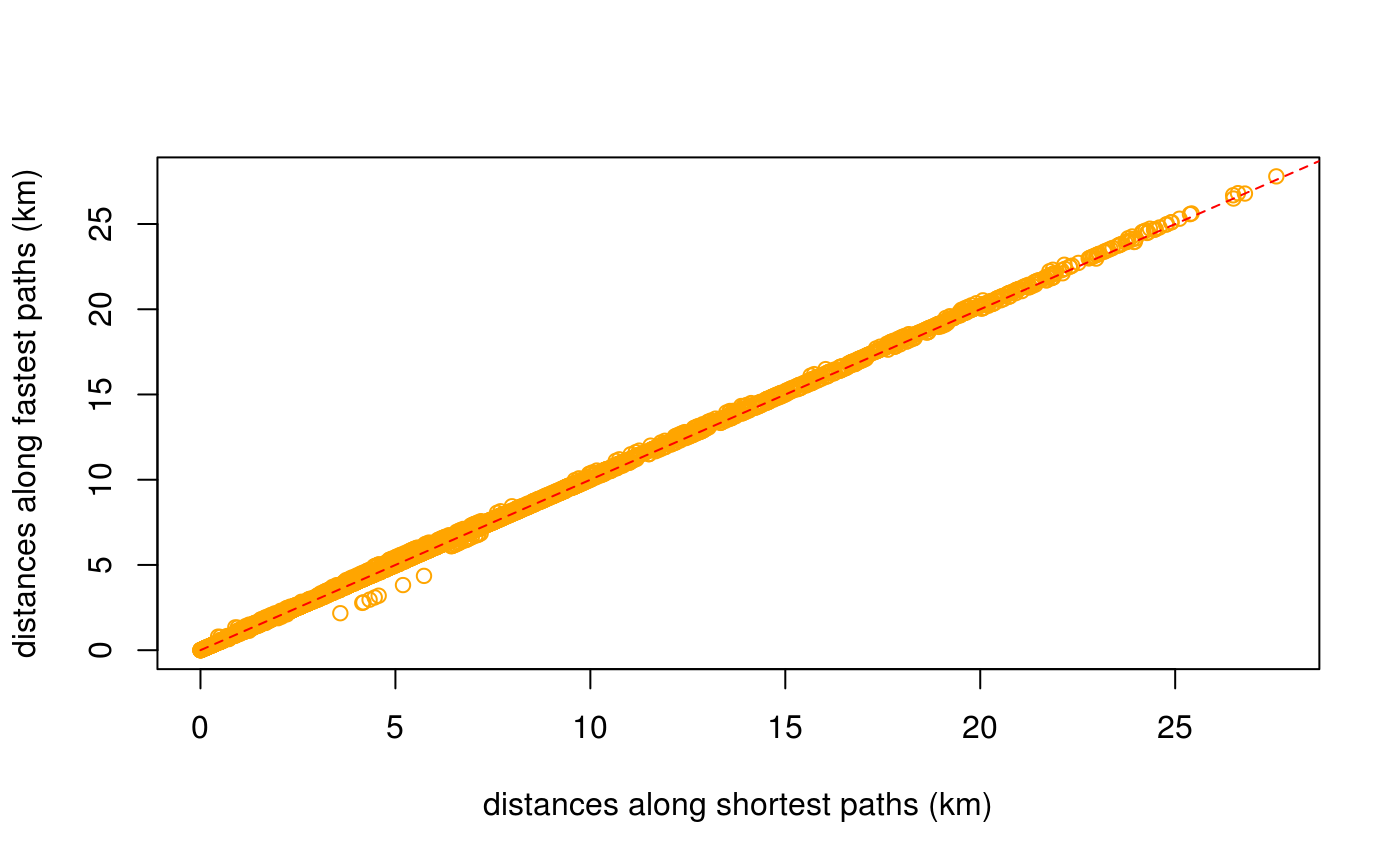
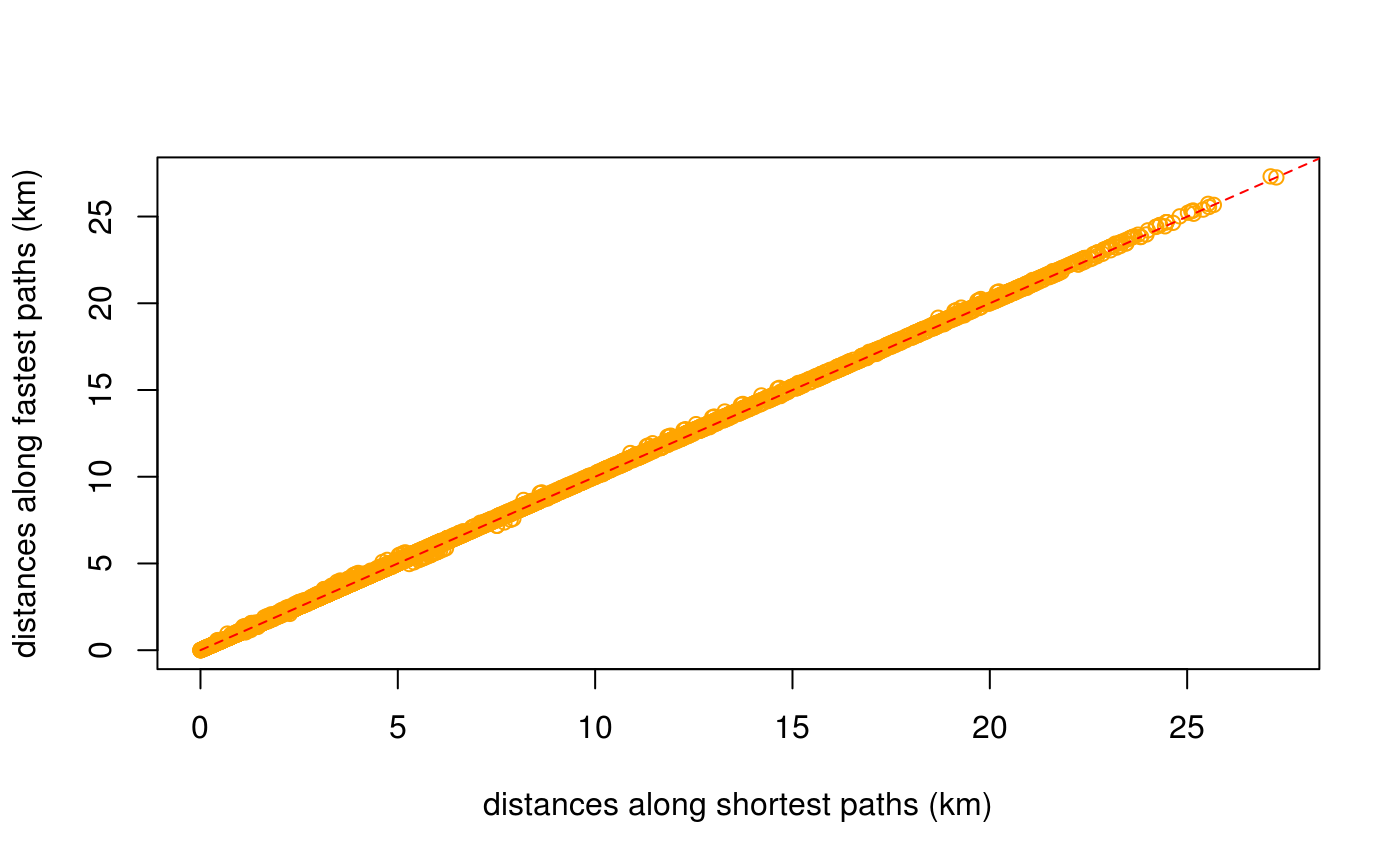
Built site for dodgr: 0.1.4.9@2d594ea

diff --git a/articles/dodgr.html b/articles/dodgr.html
@@ -343,7 +343,7 @@ Figure 2: A <strong>dual</strong>-weighted, directed graph in which the weights 
 <p>The <code>dodgr</code> packages includes a function to select a random connected portion of graph including a specified number of vertices. This function is used in the <code><a href="../reference/compare_heaps.html">compare_heaps()</a></code> function described below, but is also useful for general statistical analyses of large graphs which may otherwise take too long to compute.</p>
 <div class="sourceCode" id="cb59"><pre class="sourceCode r"><code class="sourceCode r"><a class="sourceLine" id="cb59-1" data-line-number="1">graph_sub &lt;-<span class="st"> </span><span class="kw"><a href="../reference/dodgr_sample.html">dodgr_sample</a></span> (graph, <span class="dt">nverts =</span> <span class="dv">100</span>)</a>
 <a class="sourceLine" id="cb59-2" data-line-number="2"><span class="kw"><a href="https://www.rdocumentation.org/packages/base/topics/nrow">nrow</a></span> (graph_sub)</a></code></pre></div>
-<pre><code>## [1] 199</code></pre>
+<pre><code>## [1] 197</code></pre>
 <p>The random sample has around twice as many edges as vertices, in accordance with the statistics calculated above.</p>
 <div class="sourceCode" id="cb61"><pre class="sourceCode r"><code class="sourceCode r"><a class="sourceLine" id="cb61-1" data-line-number="1"><span class="kw"><a href="https://www.rdocumentation.org/packages/base/topics/nrow">nrow</a></span> (<span class="kw"><a href="../reference/dodgr_vertices.html">dodgr_vertices</a></span> (graph_sub))</a></code></pre></div>
 <pre><code>## [1] 100</code></pre>
@@ -424,27 +424,27 @@ Figure 2: A <strong>dual</strong>-weighted, directed graph in which the weights 
 ## 6       d &lt;- dodgr_dists(graph_contracted, from = from_id, to = to_id, heap = "BHeap")
 ## 7       d &lt;- dodgr_dists(graph_contracted, from = from_id, to = to_id, heap = "FHeap")
 ## 8     d &lt;- dodgr_dists(graph_contracted, from = from_id, to = to_id, heap = "TriHeap")
-## 9  d &lt;- dodgr_dists(graph_contracted, from = from_id, to = to_id, heap = "TriHeapExt")
 ## 10     d &lt;- dodgr_dists(graph_contracted, from = from_id, to = to_id, heap = "Heap23")
-## 11        d &lt;- dodgr_dists(graph_contracted, from = from_id, to = to_id, heap = "set")
-## 3                d &lt;- dodgr_dists(graph, from = from_id, to = to_id, heap = "TriHeap")
 ## 5                 d &lt;- dodgr_dists(graph, from = from_id, to = to_id, heap = "Heap23")
-## 1                  d &lt;- dodgr_dists(graph, from = from_id, to = to_id, heap = "BHeap")
-## 2                  d &lt;- dodgr_dists(graph, from = from_id, to = to_id, heap = "FHeap")
+## 9  d &lt;- dodgr_dists(graph_contracted, from = from_id, to = to_id, heap = "TriHeapExt")
+## 11        d &lt;- dodgr_dists(graph_contracted, from = from_id, to = to_id, heap = "set")
 ## 4             d &lt;- dodgr_dists(graph, from = from_id, to = to_id, heap = "TriHeapExt")
+## 2                  d &lt;- dodgr_dists(graph, from = from_id, to = to_id, heap = "FHeap")
+## 3                d &lt;- dodgr_dists(graph, from = from_id, to = to_id, heap = "TriHeap")
+## 1                  d &lt;- dodgr_dists(graph, from = from_id, to = to_id, heap = "BHeap")
 ##    replications elapsed relative user.self sys.self user.child sys.child
-## 12            1   0.001        1     0.000        0          0         0
-## 6             1   0.002        2     0.004        0          0         0
-## 7             1   0.002        2     0.004        0          0         0
-## 8             1   0.002        2     0.004        0          0         0
-## 9             1   0.002        2     0.000        0          0         0
-## 10            1   0.002        2     0.004        0          0         0
-## 11            1   0.002        2     0.000        0          0         0
-## 3             1   0.003        3     0.004        0          0         0
-## 5             1   0.003        3     0.000        0          0         0
-## 1             1   0.004        4     0.004        0          0         0
-## 2             1   0.004        4     0.004        0          0         0
-## 4             1   0.004        4     0.004        0          0         0</code></pre>
+## 12            1   0.001        1     0.004    0.000          0         0
+## 6             1   0.002        2     0.004    0.000          0         0
+## 7             1   0.002        2     0.004    0.000          0         0
+## 8             1   0.002        2     0.004    0.000          0         0
+## 10            1   0.002        2     0.000    0.000          0         0
+## 5             1   0.003        3     0.000    0.004          0         0
+## 9             1   0.003        3     0.004    0.000          0         0
+## 11            1   0.003        3     0.004    0.000          0         0
+## 4             1   0.004        4     0.004    0.000          0         0
+## 2             1   0.005        5     0.004    0.000          0         0
+## 3             1   0.005        5     0.004    0.000          0         0
+## 1             1   0.006        6     0.008    0.000          0         0</code></pre>
 <p>The key column of that <code>data.frame</code> is <code>relative</code>, which quantifies the relative performance of each test in relation to the best which is given a score of 1. <code>dodgr</code> using the default <code>heap = "BHeap"</code>, which is a binary heap priority queue, performs faster than <code>igraph</code> <span class="citation">(Csardi and Nepusz 2006)</span> for these graphs. Different kind of graphs will perform differently with different priority queue structures, and this function enables users to empirically discern the optimal heap for their kind of graph.</p>
 <p>Note, however, that this is not an entirely fair comparison, because <code>dodgr</code> calculates dual-weighted distances, whereas <code>igraph</code>—and indeed all other <strong>R</strong> packages—only directly calculate distances based on a single set of weights. Implementing dual-weighted routing in these cases requires explicitly re-tracing all paths and summing the second set of weights along each path. A time comparison in that case would be very strongly in favour of <code>dodgr</code>. Moreover, <code>dodgr</code> can convert graphs to contracted form through removing redundant vertices, as detailed in the following section. Doing so greatly improves performance with respect to <code>igraph</code>.</p>
 <p>For those wishing to do explicit comparisons themselves, the following code generates the <code>igraph</code> equivalent of <code><a href="../reference/dodgr_dists.html">dodgr_dists()</a></code>, although of course for single-weighted graphs only:</p>
@@ -497,11 +497,11 @@ Figure 3: <strong>(A)</strong> Vertex#2 is redundant for routing calculations fr
 <pre><code>## [1] 672</code></pre>
 <div class="sourceCode" id="cb89"><pre class="sourceCode r"><code class="sourceCode r"><a class="sourceLine" id="cb89-1" data-line-number="1">verts &lt;-<span class="st"> </span><span class="kw"><a href="https://www.rdocumentation.org/packages/base/topics/sample">sample</a></span> (<span class="kw"><a href="../reference/dodgr_vertices.html">dodgr_vertices</a></span> (graph)<span class="op">$</span>id, <span class="dt">size =</span> <span class="dv">100</span>)</a>
 <a class="sourceLine" id="cb89-2" data-line-number="2"><span class="kw"><a href="https://www.rdocumentation.org/packages/utils/topics/head">head</a></span> (verts) <span class="co"># a character vector</span></a></code></pre></div>
-<pre><code>## [1] "1143452174" "1376768983" "2195424905" "1376768627" "2717241307"
-## [6] "2717241312"</code></pre>
+<pre><code>## [1] "2608163951" "1427080652" "2588155715" "5351820897" "2588146018"
+## [6] "2195425097"</code></pre>
 <div class="sourceCode" id="cb91"><pre class="sourceCode r"><code class="sourceCode r"><a class="sourceLine" id="cb91-1" data-line-number="1">grc &lt;-<span class="st"> </span><span class="kw"><a href="../reference/dodgr_contract_graph.html">dodgr_contract_graph</a></span> (graph, verts)</a>
 <a class="sourceLine" id="cb91-2" data-line-number="2"><span class="kw"><a href="https://www.rdocumentation.org/packages/base/topics/nrow">nrow</a></span> (grc)</a></code></pre></div>
-<pre><code>## [1] 854</code></pre>
+<pre><code>## [1] 856</code></pre>
 <p>Retaining the nominated vertices yields a graph with considerably more edges than the fully contracted graph excluding these vertices. The <code><a href="../reference/dodgr_dists.html">dodgr_dists()</a></code> function can be applied to the latter graph to obtain accurate distances precisely routed between these points, yet using the speed advantages of graph contraction.</p>
 </div>
 </div>
@@ -542,77 +542,23 @@ Figure 3: <strong>(A)</strong> Vertex#2 is redundant for routing calculations fr
 <pre><code>## [1] 10</code></pre>
 <p>The result (<code>dp</code>) is a list of 10 items, each of which contains 5 vectors. An example is,</p>
 <div class="sourceCode" id="cb98"><pre class="sourceCode r"><code class="sourceCode r"><a class="sourceLine" id="cb98-1" data-line-number="1">dp [[<span class="dv">1</span>]] [[<span class="dv">1</span>]]</a></code></pre></div>
-<pre><code>##   [1] "3544918722" "3544918727" "3544918728" "3544918729" "3544918730"
-##   [6] "3544918734" "3544918738" "3544918736" "3544918737" "3544918739"
-##  [11] "3544918742" "3544918741" "3544918740" "3544918735" "3544918733"
-##  [16] "3544918732" "3544918731" "3544918725" "3544918720" "3544918716"
-##  [21] "3544918708" "3544918705" "3544918701" "3544918699" "1691496284"
-##  [26] "3544918695" "3544918692" "3544918690" "3544918688" "3544918684"
-##  [31] "677638827"  "1691496416" "677638828"  "1691496412" "1161117556"
-##  [36] "1691496409" "677638825"  "1691496407" "1691496375" "1691496404"
-##  [41] "1691496406" "1691496372" "1691495745" "1691496367" "677638829" 
-##  [46] "1161117413" "1161117358" "1161117772" "1691496364" "1691496190"
-##  [51] "677638821"  "1691496086" "1161117473" "1161117620" "1691496081"
-##  [56] "676875383"  "1691495727" "677638822"  "677638823"  "1691495723"
-##  [61] "1691495720" "1691495717" "1161117349" "1691495698" "245631502" 
-##  [66] "1691495696" "1161117543" "1691495693" "1691495680" "1691495677"
-##  [71] "1161117452" "1691495672" "1161117302" "1691495665" "1691495937"
-##  [76] "1161117663" "1691496251" "1691496243" "1161117704" "1691496247"
-##  [81] "1691496237" "1161117404" "1691496236" "1691496204" "1161117288"
-##  [86] "1691495910" "1691495985" "677638817"  "1161117652" "1161117586"
-##  [91] "1691495982" "1161117526" "1691495952" "1691495943" "1161117392"
-##  [96] "1691495939" "1161117756" "1691495934" "1161117440" "1376769146"
-## [101] "1161117501" "1691495929" "1161117383" "1691496079" "1161117679"
-## [106] "677638820"  "1691496070" "1161117278" "1691496072" "1691496075"
-## [111] "1128374463" "1161117327" "2398958044" "2398958043" "2398958041"
-## [116] "2398958040" "677638818"  "6433630456" "1161117434" "2398958010"
-## [121] "2398958005" "1128374490" "2398957968" "1161117636" "2398957939"
-## [126] "1376768724" "677638819"  "1376768355" "1128374455" "1376768842"
-## [131] "2398957896" "2398957895" "1128374434" "1376768821" "677638770" 
-## [136] "1376768479" "1376769040" "2398957837" "2398957826" "1128374394"
-## [141] "2398957816" "1376768691" "977461235"  "1128374418" "1376768409"
-## [146] "1376768986" "245631194"  "1376768627" "1128374362" "676875279" 
-## [151] "1357430213" "1161117548" "1128374360" "1376769220" "1376768749"
-## [156] "1357430014" "1376768380" "676875276"  "1376768957" "1357430113"
-## [161] "1376768597" "1376768325" "1161117723" "1376768899" "1161117735"
-## [166] "1376768537" "676875308"  "1376769132" "1128374447" "1376768650"
-## [171] "1376768293" "676875274"  "1376768867" "1161117304" "1376768504"
-## [176] "1128374467" "1128374373" "6161027522" "1128374412" "1376769190"
-## [181] "1128374442" "676875269"  "245631169"  "1376768805" "2398957722"
-## [186] "313796425"  "2398957720" "1376769010" "2398957713" "1376768565"
-## [191] "2398957701" "2398957696" "1128374495" "313796426"  "1128374399"
-## [196] "313796427"  "313796428"  "2398957603" "313796429"  "1427594112"
-## [201] "1376769158" "313796430"  "313796431"  "2398957567" "2398957563"
-## [206] "3338186986" "313796432"  "2398957555" "2398957554" "1376768773"
-## [211] "313796433"  "2419196948" "2398957539" "676875267"  "2398957521"
-## [216] "2398957526" "2398957532" "2398957537" "676635860"  "2398957542"
-## [221] "2398957543" "2398957544" "2398957546" "338905245"  "2398957549"
-## [226] "2398957557" "2398957561" "338905227"  "2398957564" "338905221" 
-## [231] "2398957568" "2398957570" "2398957571" "1427594104" "2398957576"
-## [236] "338905220"  "2398957584" "1376769086" "1376768510" "2398957588"
-## [241] "2398957589" "338905219"  "1376768779" "1376769164" "338905128" 
-## [246] "2398957593" "1376768571" "2398957595" "338905105"  "338905103" 
-## [251] "338905101"  "2398957611" "1427115973" "2398957612" "2398957616"
-## [256] "338905098"  "2398957623" "338905039"  "2398957626" "1427115977"
-## [261] "338905037"  "2398957627" "1427115981" "2398957629" "1427115983"
-## [266] "338905036"  "1148814692" "2398957641" "2398957665" "676875127" 
-## [271] "2398957674" "2398957680" "338905033"  "1148814852" "1148815109"
-## [276] "339577292"  "338905032"  "1376768330" "1148815140" "2398957718"
-## [281] "2398957723" "338905024"  "2398957725" "2398957726" "2398957731"
-## [286] "2398957732" "338904982"  "338904980"  "2398957745" "1148815173"
-## [291] "338904911"  "2398957752" "1148814697" "2398957759" "338904910" 
-## [296] "1148815220" "338904889"</code></pre>
+<pre><code>##  [1] "980400409"  "980400568"  "3697938722" "2627477003" "3697939525"
+##  [6] "3697939526" "3921515978" "2627476990" "2627476991" "2627476993"
+## [11] "2627476996" "3697938721" "3697938717" "3697938720" "3697938718"
+## [16] "3697938719" "3921513380" "3697938723" "977461586"  "2636406747"
+## [21] "977461256"  "2636406743" "339060040"  "2717241328" "2717241330"
+## [26] "339060779"  "339059968"  "339059966"  "339059959"  "339059958"</code></pre>
 <p>For spatial graphs, the coordinates of these paths can be obtained by extracting the vertices with <code><a href="../reference/dodgr_vertices.html">dodgr_vertices()</a></code> and matching the vertex IDs:</p>
 <div class="sourceCode" id="cb100"><pre class="sourceCode r"><code class="sourceCode r"><a class="sourceLine" id="cb100-1" data-line-number="1">verts &lt;-<span class="st"> </span><span class="kw"><a href="../reference/dodgr_vertices.html">dodgr_vertices</a></span> (graph)</a>
 <a class="sourceLine" id="cb100-2" data-line-number="2">path1 &lt;-<span class="st"> </span>verts [<span class="kw"><a href="https://www.rdocumentation.org/packages/base/topics/match">match</a></span> (dp [[<span class="dv">1</span>]] [[<span class="dv">1</span>]], verts<span class="op">$</span>id), ]</a>
 <a class="sourceLine" id="cb100-3" data-line-number="3"><span class="kw"><a href="https://www.rdocumentation.org/packages/utils/topics/head">head</a></span> (path1)</a></code></pre></div>
-<pre><code>##              id        x        y component   n
-## 1122 3544918722 76.58498 15.37710         1 573
-## 1120 3544918727 76.58235 15.37773         1 572
-## 1118 3544918728 76.58195 15.37780         1 571
-## 1116 3544918729 76.58061 15.37780         1 570
-## 1114 3544918730 76.58012 15.37782         1 569
-## 1112 3544918734 76.57888 15.37809         1 568</code></pre>
+<pre><code>##              id        x        y component    n
+## 2198  980400409 76.45980 15.33236         1 1112
+## 2196  980400568 76.45966 15.33249         1 1111
+## 2194 3697938722 76.45943 15.33299         1 1110
+## 2192 2627477003 76.45932 15.33326         1 1109
+## 2190 3697939525 76.45922 15.33349         1 1108
+## 2189 3697939526 76.45923 15.33368         1 1107</code></pre>
 <p>Paths calculated on contracted graphs will of course have fewer vertices than those calculated on full graphs.</p>
 </div>
 <div id="aggregated-flows" class="section level1">
@@ -656,7 +602,7 @@ Figure 3: <strong>(A)</strong> Vertex#2 is redundant for routing calculations fr
 <p>Most flows are zero because they have only been calculated between very few points in the graph.</p>
 <div class="sourceCode" id="cb105"><pre class="sourceCode r"><code class="sourceCode r"><a class="sourceLine" id="cb105-1" data-line-number="1"><span class="kw"><a href="https://www.rdocumentation.org/packages/base/topics/summary">summary</a></span> (graph_f<span class="op">$</span>flow)</a></code></pre></div>
 <pre><code>##    Min. 1st Qu.  Median    Mean 3rd Qu.    Max. 
-##   0.000   0.000   0.000   5.081   4.054  51.975</code></pre>
+##   0.000   0.000   0.000   5.752   0.000 115.076</code></pre>
 </div>
 <div id="flow-dispersal" class="section level2">
 <h2 class="hasAnchor">
@@ -666,7 +612,7 @@ Figure 3: <strong>(A)</strong> Vertex#2 is redundant for routing calculations fr
 <a class="sourceLine" id="cb107-2" data-line-number="2">graph_f &lt;-<span class="st"> </span><span class="kw"><a href="../reference/dodgr_flows_disperse.html">dodgr_flows_disperse</a></span> (graph, <span class="dt">from =</span> from, <span class="dt">dens =</span> dens)</a>
 <a class="sourceLine" id="cb107-3" data-line-number="3"><span class="kw"><a href="https://www.rdocumentation.org/packages/base/topics/summary">summary</a></span> (graph_f<span class="op">$</span>flow)</a></code></pre></div>
 <pre><code>##      Min.   1st Qu.    Median      Mean   3rd Qu.      Max. 
-## 0.000e+00 0.000e+00 0.000e+00 8.371e-05 0.000e+00 2.039e-01</code></pre>
+## 0.000e+00 0.000e+00 0.000e+00 7.680e-06 0.000e+00 4.165e-02</code></pre>
 </div>
 <div id="merging-directed-flows" class="section level2">
 <h2 class="hasAnchor">
@@ -676,7 +622,7 @@ Figure 3: <strong>(A)</strong> Vertex#2 is redundant for routing calculations fr
 <p>Resultant graphs produced by <code><a href="../reference/merge_directed_flows.html">merge_directed_flows()</a></code> only include those edges having non-zero flows, and so:</p>
 <div class="sourceCode" id="cb110"><pre class="sourceCode r"><code class="sourceCode r"><a class="sourceLine" id="cb110-1" data-line-number="1"><span class="kw"><a href="https://www.rdocumentation.org/packages/base/topics/nrow">nrow</a></span> (graph_f); <span class="kw"><a href="https://www.rdocumentation.org/packages/base/topics/nrow">nrow</a></span> (graph_undir) <span class="co"># the latter is much smaller</span></a></code></pre></div>
 <pre><code>## [1] 5973</code></pre>
-<pre><code>## [1] 1660</code></pre>
+<pre><code>## [1] 1913</code></pre>
 <p>The resultant graph can readily be merged with the original graph to regain the original data on vertex coordinates through</p>
 <div class="sourceCode" id="cb113"><pre class="sourceCode r"><code class="sourceCode r"><a class="sourceLine" id="cb113-1" data-line-number="1">graph &lt;-<span class="st"> </span>graph [graph_undir<span class="op">$</span>edge_id, ]</a>
 <a class="sourceLine" id="cb113-2" data-line-number="2">graph<span class="op">$</span>flow &lt;-<span class="st"> </span>graph_undir<span class="op">$</span>flow</a></code></pre></div>

diff --git a/articles/times.html b/articles/times.html
@@ -227,11 +227,11 @@ Figure 1: Graph modification to account for turn penalties, which introduces the
 <p><img src="times_files/figure-html/shortest-vs-fastest-1.png" width="700"></p>
 <p>The average distance between the two (in metres) is:</p>
 <div class="sourceCode" id="cb9"><pre class="sourceCode r"><code class="sourceCode r"><a class="sourceLine" id="cb9-1" data-line-number="1"><span class="kw"><a href="https://www.rdocumentation.org/packages/base/topics/mean">mean</a></span> (<span class="kw"><a href="https://www.rdocumentation.org/packages/base/topics/MathFun">abs</a></span> (d_time <span class="op">-</span><span class="st"> </span>d_dist), <span class="dt">na.rm =</span> <span class="ot">TRUE</span>)</a></code></pre></div>
-<pre><code>## [1] 68.72433</code></pre>
+<pre><code>## [1] 50.84141</code></pre>
 <p>The plot reveals that shortest distances are indeed somewhat shorter than distances along fastest paths, but also that some fastest paths are actually shorter than shortest paths:</p>
 <div class="sourceCode" id="cb11"><pre class="sourceCode r"><code class="sourceCode r"><a class="sourceLine" id="cb11-1" data-line-number="1">index &lt;-<span class="st"> </span><span class="kw"><a href="https://www.rdocumentation.org/packages/base/topics/which">which</a></span> (<span class="op">!</span><span class="kw"><a href="https://www.rdocumentation.org/packages/base/topics/NA">is.na</a></span> (d_time) <span class="op">&amp;</span><span class="st"> </span><span class="op">!</span><span class="kw"><a href="https://www.rdocumentation.org/packages/base/topics/NA">is.na</a></span> (d_dist))</a>
 <a class="sourceLine" id="cb11-2" data-line-number="2"><span class="kw"><a href="https://www.rdocumentation.org/packages/base/topics/length">length</a></span> (<span class="kw"><a href="https://www.rdocumentation.org/packages/base/topics/which">which</a></span> (d_time [index] <span class="op">&lt;</span><span class="st"> </span>d_dist [index])) <span class="op">/</span><span class="st"> </span><span class="kw"><a href="https://www.rdocumentation.org/packages/base/topics/length">length</a></span> (index)</a></code></pre></div>
-<pre><code>## [1] 0.01640514</code></pre>
+<pre><code>## [1] 0.008977901</code></pre>
 <p>While <code>dodgr</code> and indeed all routing engines attempt to maximally reconcile differences between fastest and shortest routes, there nevertheless remain important discrepancies. Foremost among these, and the primary reason why some fastest routes may in fact be shorter than shortest routes, is that fastest routes allocate preferences for different kinds of way based both on the <code>value</code> column in the <code>weighting_profiles$weighting_profiles</code> table illustrated above, and on the actual maximum speed of a given edge, which itself may be a combination of maximum speeds as specified in OSM itself, maximum speeds from the <code>weighting_profiles$weighting_profiles</code> table, or values specific to a given surface. The result is that some unique combination of maximum speeds along a network may lead to <em>fastest</em> routes being preferentially directed along a path that is actually shorter than the direct shortest path which is calculated independent of maximum speed values.</p>
 <p>Such discrepancies are important in understanding differences in routes <em>times</em> calculated along shortest versus fastest paths. These times can be calculated (in seconds) with the <a href="https://atfutures.github.io/dodgr/reference/dodgr_times.html"><code><a href="../reference/dodgr_times.html">dodgr_times()</a></code></a> function:</p>
 <div class="sourceCode" id="cb13"><pre class="sourceCode r"><code class="sourceCode r"><a class="sourceLine" id="cb13-1" data-line-number="1">t_dist &lt;-<span class="st"> </span><span class="kw"><a href="../reference/dodgr_times.html">dodgr_times</a></span> (graph, <span class="dt">from =</span> from, <span class="dt">to =</span> to, <span class="dt">shortest =</span> <span class="ot">TRUE</span>) <span class="co"># default</span></a>
@@ -242,11 +242,11 @@ Figure 1: Graph modification to account for turn penalties, which introduces the
 <a class="sourceLine" id="cb13-6" data-line-number="6"><span class="kw"><a href="https://www.rdocumentation.org/packages/graphics/topics/lines">lines</a></span> (<span class="dv">0</span><span class="op">:</span><span class="dv">100</span>, <span class="dv">0</span><span class="op">:</span><span class="dv">100</span>, <span class="dt">col =</span> <span class="st">"red"</span>, <span class="dt">lty =</span> <span class="dv">2</span>)</a></code></pre></div>
 <p><img src="times_files/figure-html/shortest-vs-fastest-times-1.png" width="700"></p>
 <div class="sourceCode" id="cb14"><pre class="sourceCode r"><code class="sourceCode r"><a class="sourceLine" id="cb14-1" data-line-number="1"><span class="kw"><a href="https://www.rdocumentation.org/packages/base/topics/mean">mean</a></span> (<span class="kw"><a href="https://www.rdocumentation.org/packages/base/topics/MathFun">abs</a></span> (t_time <span class="op">-</span><span class="st"> </span>t_dist), <span class="dt">na.rm =</span> <span class="ot">TRUE</span>)</a></code></pre></div>
-<pre><code>## [1] 68.29051</code></pre>
+<pre><code>## [1] 52.01258</code></pre>
 <p>As above, times along fastest paths are generally less than times along shortest paths, although there are again a few exceptions:</p>
 <div class="sourceCode" id="cb16"><pre class="sourceCode r"><code class="sourceCode r"><a class="sourceLine" id="cb16-1" data-line-number="1">index &lt;-<span class="st"> </span><span class="kw"><a href="https://www.rdocumentation.org/packages/base/topics/which">which</a></span> (<span class="op">!</span><span class="kw"><a href="https://www.rdocumentation.org/packages/base/topics/NA">is.na</a></span> (t_time) <span class="op">&amp;</span><span class="st"> </span><span class="op">!</span><span class="kw"><a href="https://www.rdocumentation.org/packages/base/topics/NA">is.na</a></span> (t_dist))</a>
 <a class="sourceLine" id="cb16-2" data-line-number="2"><span class="kw"><a href="https://www.rdocumentation.org/packages/base/topics/length">length</a></span> (<span class="kw"><a href="https://www.rdocumentation.org/packages/base/topics/which">which</a></span> (t_dist [index] <span class="op">&lt;</span><span class="st"> </span>t_time [index])) <span class="op">/</span><span class="st"> </span><span class="kw"><a href="https://www.rdocumentation.org/packages/base/topics/length">length</a></span> (index)</a></code></pre></div>
-<pre><code>## [1] 0.02817404</code></pre>
+<pre><code>## [1] 0.01640193</code></pre>
 <p>These results demonstrate how the combination of the <a href="https://atfutures.github.io/dodgr/reference/dodgr_distances.html"><code><a href="../reference/dodgr_distances.html">dodgr_distances()</a></code></a> and <a href="https://atfutures.github.io/dodgr/reference/dodgr_times.html"><code><a href="../reference/dodgr_times.html">dodgr_times()</a></code></a> functions enable calculation of both distances and times along both shortest and fastest paths.</p>
 <div id="time-based-paths-and-flow-aggregation" class="section level2">
 <h2 class="hasAnchor">

diff --git a/reference/compare_heaps.html b/reference/compare_heaps.html
@@ -163,22 +163,22 @@ fair comparisons, run only once or re-start the current R session.</p>
 #&gt; 12                  d &lt;- igraph::distances(igr, v = from_id, to = to_id, mode = "out")
 #&gt; 1                  d &lt;- dodgr_dists(graph, from = from_id, to = to_id, heap = "BHeap")
 #&gt; 2                  d &lt;- dodgr_dists(graph, from = from_id, to = to_id, heap = "FHeap")
-#&gt; 5                 d &lt;- dodgr_dists(graph, from = from_id, to = to_id, heap = "Heap23")
 #&gt; 3                d &lt;- dodgr_dists(graph, from = from_id, to = to_id, heap = "TriHeap")
+#&gt; 5                 d &lt;- dodgr_dists(graph, from = from_id, to = to_id, heap = "Heap23")
 #&gt; 4             d &lt;- dodgr_dists(graph, from = from_id, to = to_id, heap = "TriHeapExt")
 #&gt;    replications elapsed relative user.self sys.self user.child sys.child
 #&gt; 6             1   0.005      1.0     0.008        0          0         0
-#&gt; 11            1   0.005      1.0     0.004        0          0         0
-#&gt; 7             1   0.006      1.2     0.008        0          0         0
-#&gt; 8             1   0.006      1.2     0.012        0          0         0
+#&gt; 11            1   0.005      1.0     0.008        0          0         0
+#&gt; 7             1   0.006      1.2     0.012        0          0         0
+#&gt; 8             1   0.006      1.2     0.008        0          0         0
 #&gt; 10            1   0.006      1.2     0.008        0          0         0
 #&gt; 9             1   0.007      1.4     0.008        0          0         0
-#&gt; 12            1   0.014      2.8     0.012        0          0         0
+#&gt; 12            1   0.015      3.0     0.016        0          0         0
 #&gt; 1             1   0.025      5.0     0.040        0          0         0
-#&gt; 2             1   0.033      6.6     0.052        0          0         0
+#&gt; 2             1   0.032      6.4     0.052        0          0         0
+#&gt; 3             1   0.033      6.6     0.056        0          0         0
 #&gt; 5             1   0.033      6.6     0.056        0          0         0
-#&gt; 3             1   0.034      6.8     0.060        0          0         0
-#&gt; 4             1   0.036      7.2     0.036        0          0         0</div></pre>
+#&gt; 4             1   0.035      7.0     0.032        0          0         0</div></pre>
   </div>
   <div class="col-md-3 hidden-xs hidden-sm" id="sidebar">
     <h2>Contents</h2>

diff --git a/reference/dodgr_sample.html b/reference/dodgr_sample.html
@@ -141,7 +141,7 @@ the requested <code>nverts</code>.</p>
     <h2 class="hasAnchor" id="examples"><a class="anchor" href="#examples"></a>Examples</h2>
     <pre class="examples"><div class='input'><span class='no'>graph</span> <span class='kw'>&lt;-</span> <span class='fu'><a href='weight_streetnet.html'>weight_streetnet</a></span> (<span class='no'>hampi</span>)
 <span class='fu'><a href='https://www.rdocumentation.org/packages/base/topics/nrow'>nrow</a></span> (<span class='no'>graph</span>) <span class='co'># 5,742</span></div><div class='output co'>#&gt; [1] 5973</div><div class='input'><span class='no'>graph</span> <span class='kw'>&lt;-</span> <span class='fu'>dodgr_sample</span> (<span class='no'>graph</span>, <span class='kw'>nverts</span> <span class='kw'>=</span> <span class='fl'>200</span>)
-<span class='fu'><a href='https://www.rdocumentation.org/packages/base/topics/nrow'>nrow</a></span> (<span class='no'>graph</span>) <span class='co'># generally around 400 edges</span></div><div class='output co'>#&gt; [1] 415</div><div class='input'><span class='fu'><a href='https://www.rdocumentation.org/packages/base/topics/nrow'>nrow</a></span> (<span class='fu'><a href='dodgr_vertices.html'>dodgr_vertices</a></span> (<span class='no'>graph</span>)) <span class='co'># 200</span></div><div class='output co'>#&gt; [1] 200</div></pre>
+<span class='fu'><a href='https://www.rdocumentation.org/packages/base/topics/nrow'>nrow</a></span> (<span class='no'>graph</span>) <span class='co'># generally around 400 edges</span></div><div class='output co'>#&gt; [1] 419</div><div class='input'><span class='fu'><a href='https://www.rdocumentation.org/packages/base/topics/nrow'>nrow</a></span> (<span class='fu'><a href='dodgr_vertices.html'>dodgr_vertices</a></span> (<span class='no'>graph</span>)) <span class='co'># 200</span></div><div class='output co'>#&gt; [1] 200</div></pre>
   </div>
   <div class="col-md-3 hidden-xs hidden-sm" id="sidebar">
     <h2>Contents</h2>

diff --git a/index.html b/index.html
@@ -511,7 +511,7 @@
 <td align="right">1</td>
 <td align="right">95.358362</td>
 <td align="right">119.197952</td>
-<td align="right">23.42054</td>
+<td align="right">0.00000</td>
 </tr>
 <tr class="even">
 <td align="right">1</td>
@@ -529,7 +529,7 @@
 <td align="right">1</td>
 <td align="right">95.358362</td>
 <td align="right">119.197952</td>
-<td align="right">23.34900</td>
+<td align="right">20.61171</td>
 </tr>
 <tr class="odd">
 <td align="right">1</td>
@@ -547,7 +547,7 @@
 <td align="right">1</td>
 <td align="right">6.399843</td>
 <td align="right">7.999803</td>
-<td align="right">23.42054</td>
+<td align="right">0.00000</td>
 </tr>
 <tr class="even">
 <td align="right">1</td>
@@ -565,7 +565,7 @@
 <td align="right">1</td>
 <td align="right">6.399843</td>
 <td align="right">7.999803</td>
-<td align="right">23.34900</td>
+<td align="right">20.61171</td>
 </tr>
 <tr class="odd">
 <td align="right">1</td>
@@ -583,7 +583,7 @@
 <td align="right">1</td>
 <td align="right">6.715106</td>
 <td align="right">8.393882</td>
-<td align="right">23.42054</td>
+<td align="right">0.00000</td>
 </tr>
 <tr class="even">
 <td align="right">1</td>
@@ -601,7 +601,7 @@
 <td align="right">1</td>
 <td align="right">6.715106</td>
 <td align="right">8.393882</td>
-<td align="right">23.34900</td>
+<td align="right">20.61171</td>
 </tr>
 </tbody>
 </table>
